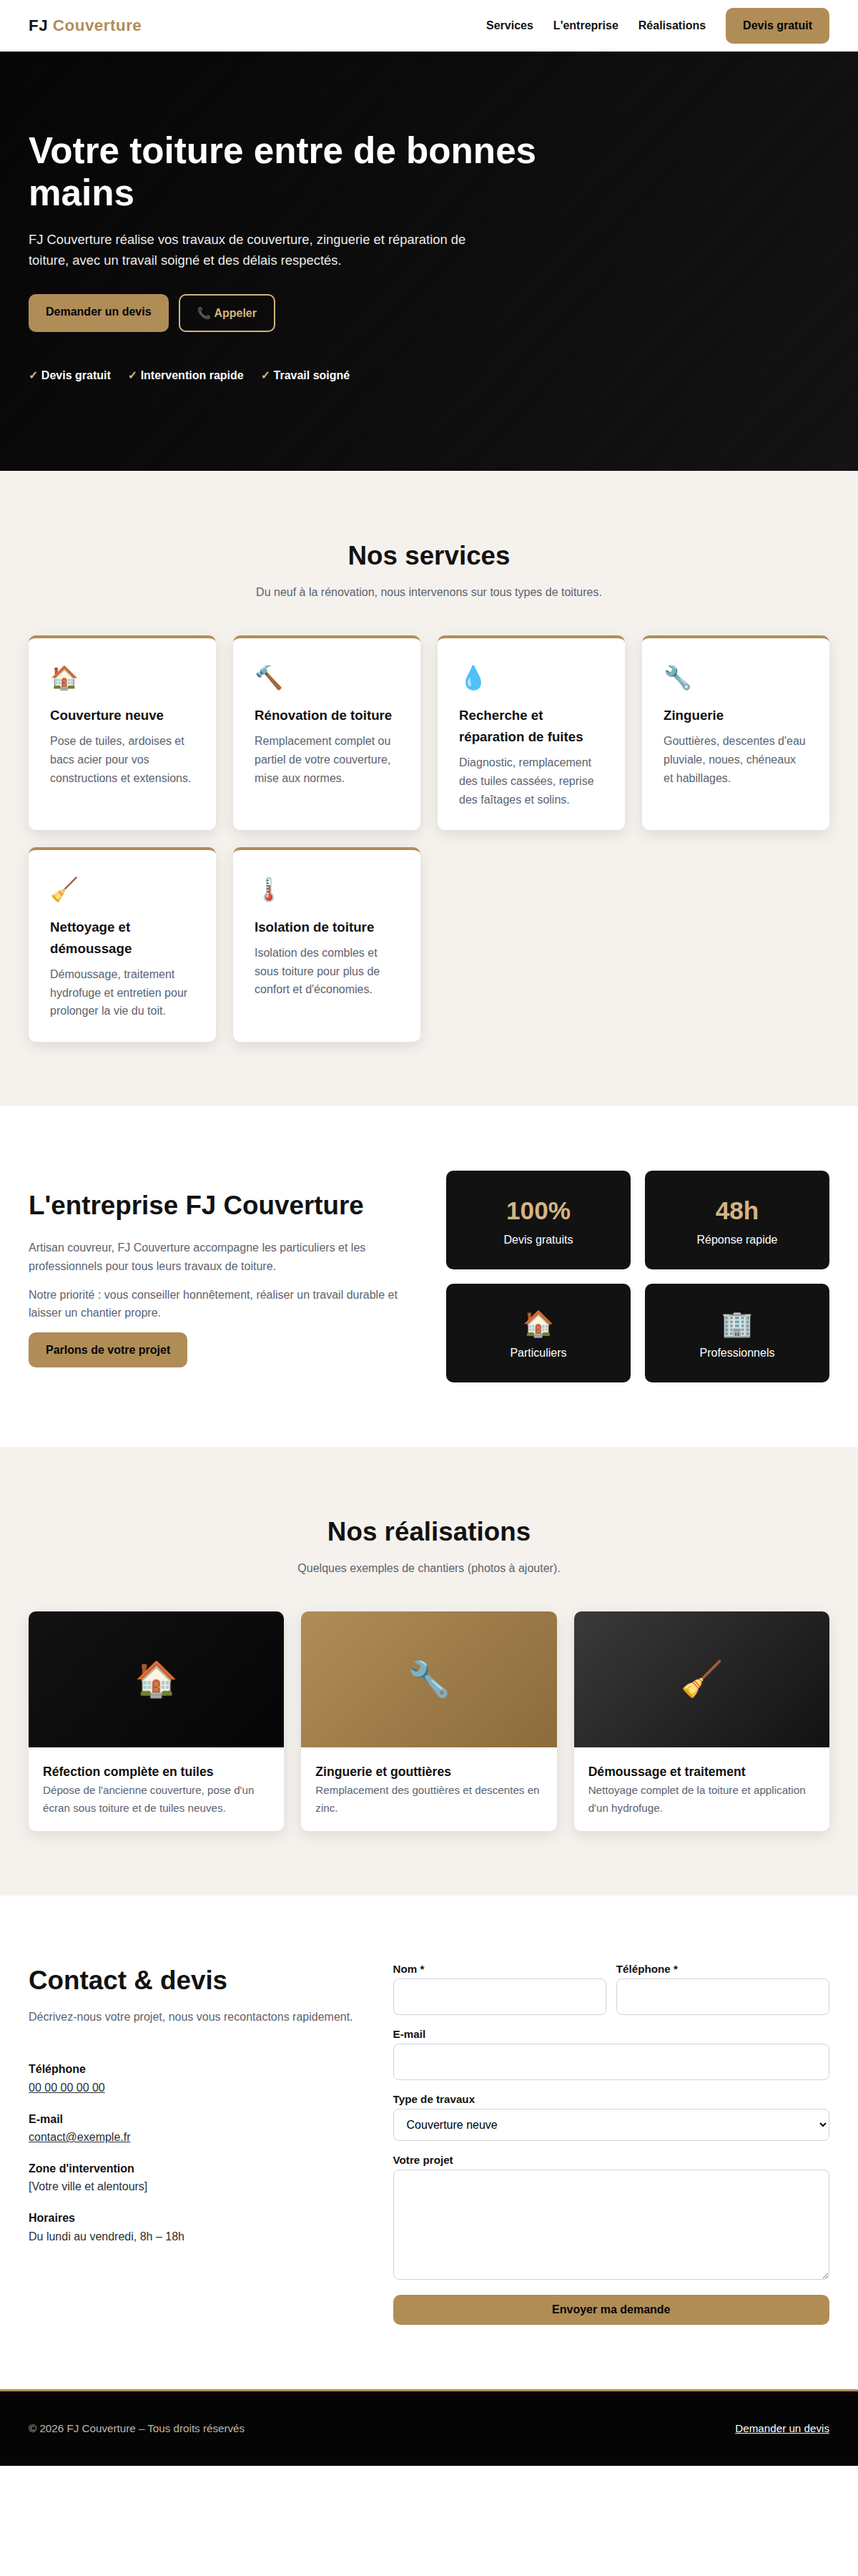
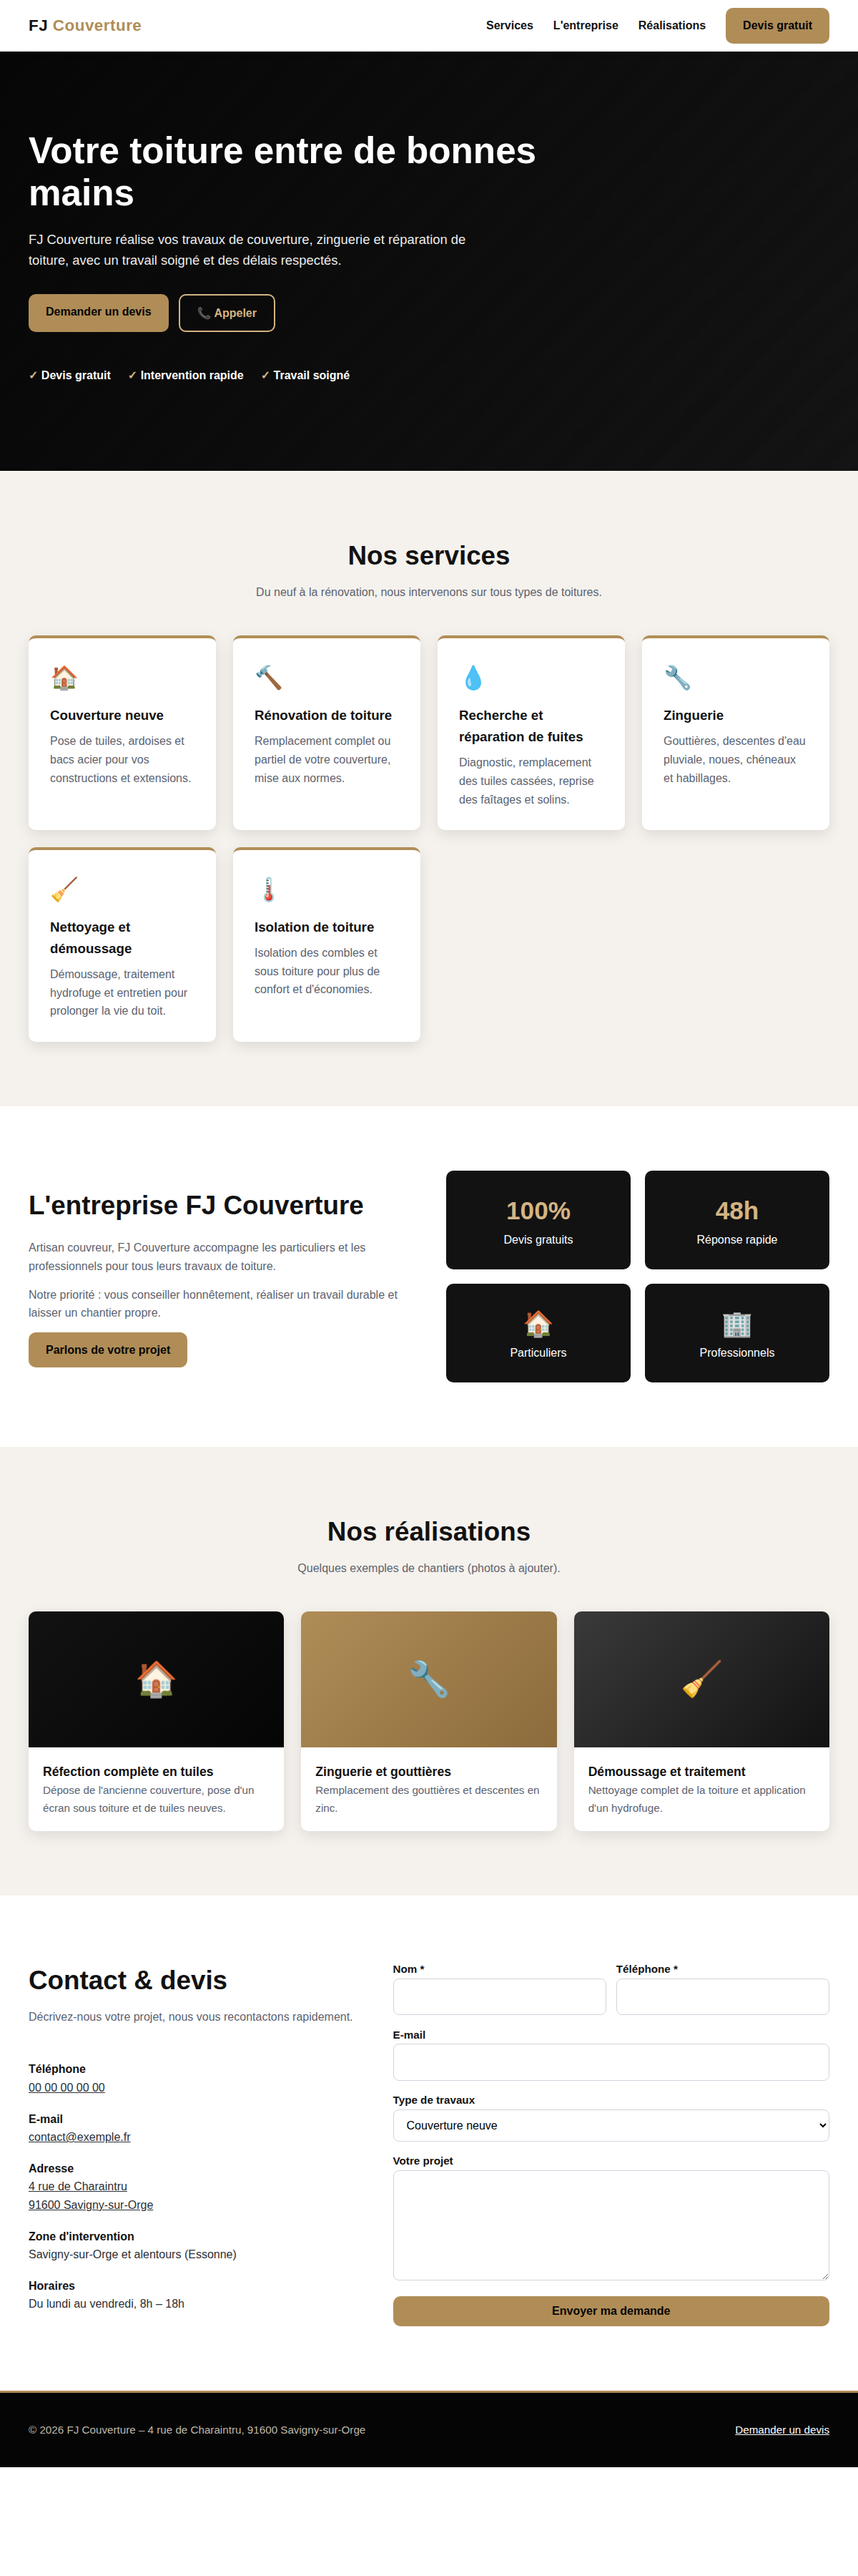
Ajout de l'adresse : 4 rue de Charaintru, 91600 Savigny-sur-Orge
Claude-Session: https://claude.ai/code/session_01R1fo6otqDwMmqBwsKYAnGy

Changed region(s): [[0.0308, 0.84, 0.2158, 0.9022], [0.4625, 0.8089, 0.555, 0.84], [0.6475, 0.8711, 0.6783, 0.9022]]

diff --git a/index.html b/index.html
@@ -3,8 +3,8 @@
 <head>
   <meta charset="UTF-8">
   <meta name="viewport" content="width=device-width, initial-scale=1.0">
-  <title>FJ Couverture – Couvreur, toiture et zinguerie</title>
-  <meta name="description" content="FJ Couverture : pose et rénovation de toiture, zinguerie, réparation de fuites, isolation et entretien. Devis gratuit.">
+  <title>FJ Couverture – Couvreur à Savigny-sur-Orge (91)</title>
+  <meta name="description" content="FJ Couverture : pose et rénovation de toiture, zinguerie, réparation de fuites, isolation et entretien. Couvreur à Savigny-sur-Orge (91). Devis gratuit.">
   <link rel="stylesheet" href="assets/css/style.css">
 </head>
 <body>
@@ -141,7 +141,8 @@
           <ul class="contact-infos">
             <li><strong>Téléphone</strong><a href="tel:+33000000000">00 00 00 00 00</a></li>
             <li><strong>E-mail</strong><a href="mailto:contact@exemple.fr">contact@exemple.fr</a></li>
-            <li><strong>Zone d'intervention</strong>[Votre ville et alentours]</li>
+            <li><strong>Adresse</strong><a href="https://www.google.com/maps/search/?api=1&amp;query=4+rue+de+Charaintru+91600+Savigny-sur-Orge" target="_blank" rel="noopener">4 rue de Charaintru<br>91600 Savigny-sur-Orge</a></li>
+            <li><strong>Zone d'intervention</strong>Savigny-sur-Orge et alentours (Essonne)</li>
             <li><strong>Horaires</strong>Du lundi au vendredi, 8h – 18h</li>
           </ul>
         </div>
@@ -172,7 +173,7 @@
 
   <footer class="site-footer">
     <div class="container">
-      <p>© <span id="annee"></span> FJ Couverture – Tous droits réservés</p>
+      <p>© <span id="annee"></span> FJ Couverture – 4 rue de Charaintru, 91600 Savigny-sur-Orge</p>
       <p><a href="#contact">Demander un devis</a></p>
     </div>
   </footer>

diff --git a/wordpress/fj-couverture/functions.php b/wordpress/fj-couverture/functions.php
@@ -30,7 +30,8 @@ function fj_defaults() {
 	return array(
 		'fj_telephone' => '00 00 00 00 00',
 		'fj_email'     => get_option( 'admin_email' ),
-		'fj_zone'      => '[Votre ville et alentours]',
+		'fj_adresse'   => '4 rue de Charaintru, 91600 Savigny-sur-Orge',
+		'fj_zone'      => 'Savigny-sur-Orge et alentours (Essonne)',
 		'fj_horaires'  => 'Du lundi au vendredi, 8h – 18h',
 	);
 }
@@ -49,6 +50,7 @@ function fj_customize_register( $wp_customize ) {
 	$champs = array(
 		'fj_telephone' => array( __( 'Téléphone', 'fj-couverture' ), 'sanitize_text_field' ),
 		'fj_email'     => array( __( 'E-mail (reçoit les demandes de devis)', 'fj-couverture' ), 'sanitize_email' ),
+		'fj_adresse'   => array( __( 'Adresse', 'fj-couverture' ), 'sanitize_text_field' ),
 		'fj_zone'      => array( __( "Zone d'intervention", 'fj-couverture' ), 'sanitize_text_field' ),
 		'fj_horaires'  => array( __( 'Horaires', 'fj-couverture' ), 'sanitize_text_field' ),
 	);

diff --git a/wordpress/fj-couverture/front-page.php b/wordpress/fj-couverture/front-page.php
@@ -117,6 +117,7 @@
           <ul class="contact-infos">
             <li><strong>Téléphone</strong><a href="<?php echo esc_attr( fj_tel_href() ); ?>"><?php echo esc_html( fj_option( 'fj_telephone' ) ); ?></a></li>
             <li><strong>E-mail</strong><a href="mailto:<?php echo esc_attr( fj_option( 'fj_email' ) ); ?>"><?php echo esc_html( fj_option( 'fj_email' ) ); ?></a></li>
+            <li><strong>Adresse</strong><a href="<?php echo esc_url( 'https://www.google.com/maps/search/?api=1&query=' . rawurlencode( fj_option( 'fj_adresse' ) ) ); ?>" target="_blank" rel="noopener"><?php echo esc_html( fj_option( 'fj_adresse' ) ); ?></a></li>
             <li><strong>Zone d'intervention</strong><?php echo esc_html( fj_option( 'fj_zone' ) ); ?></li>
             <li><strong>Horaires</strong><?php echo esc_html( fj_option( 'fj_horaires' ) ); ?></li>
           </ul>

diff --git a/wordpress/fj-couverture/footer.php b/wordpress/fj-couverture/footer.php
@@ -1,6 +1,6 @@
 <footer class="site-footer">
   <div class="container">
-    <p>© <?php echo esc_html( gmdate( 'Y' ) ); ?> FJ Couverture – Tous droits réservés</p>
+    <p>© <?php echo esc_html( gmdate( 'Y' ) ); ?> FJ Couverture – <?php echo esc_html( fj_option( 'fj_adresse' ) ); ?></p>
     <p><a href="<?php echo esc_url( home_url( '/' ) ); ?>#contact">Demander un devis</a></p>
   </div>
 </footer>

diff --git a/README.md b/README.md
@@ -17,7 +17,6 @@ Couleurs : noir et bronze (variables en haut de `assets/css/style.css`).
 
 ## À personnaliser avant mise en ligne
 - Téléphone `00 00 00 00 00` et e-mail `contact@exemple.fr` (dans `index.html`)
-- Zone d'intervention `[Votre ville et alentours]`
 - Photos des réalisations (actuellement des visuels provisoires)
 - Mentions légales (obligatoires : SIRET, assurance décennale, etc.)
 
